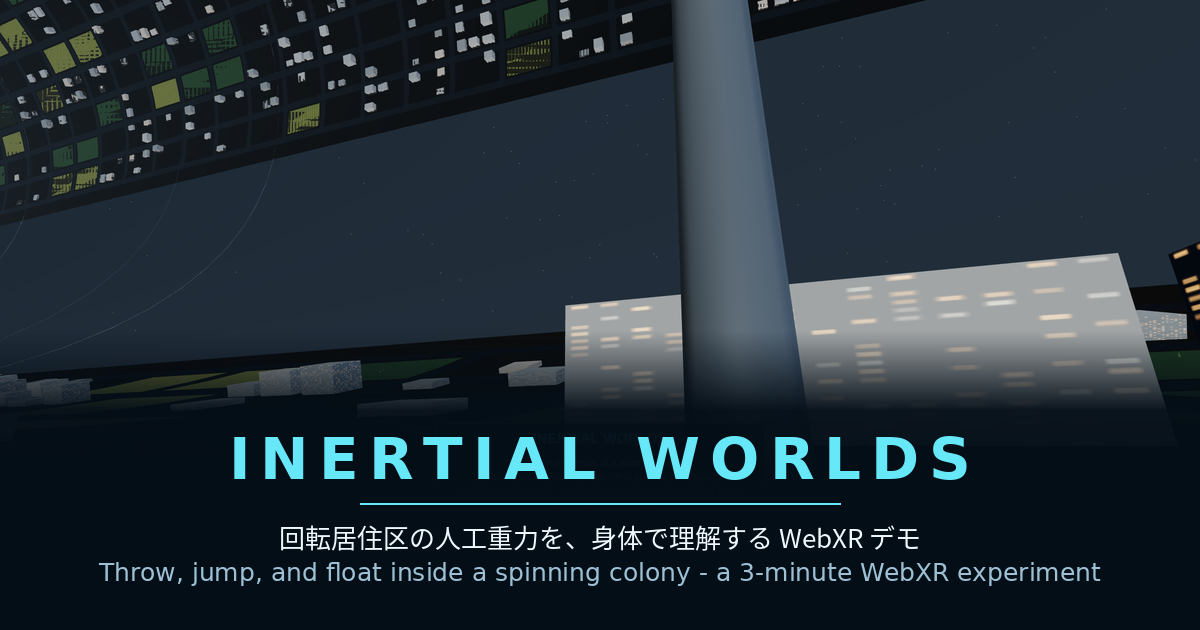
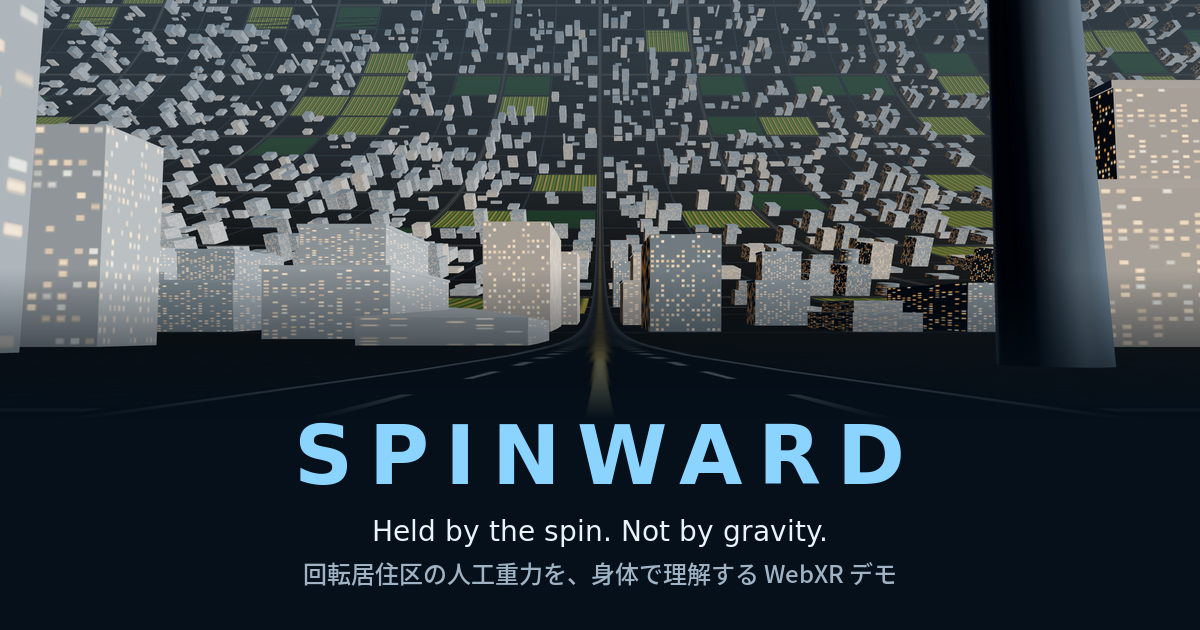
feat: 新OGカード（Spinward）とデプロイ手順を整備
- public/og.png を実ゲームのヒーローフレーム（Cooper の頭上へ巻き上がる街）から
  再生成。旧コードネーム "INERTIAL WORLDS" のソーシャルカードを Spinward 表記
  （"Held by the spin. Not by gravity."）へ刷新（1200×630）
- package.json に deploy script を追加（= bun run build && wrangler versions upload）
- README のデプロイ節を実態へ修正（CI は test+build のみ／本番反映は手動 wrangler）
- デバッグ用グローバル __xr1 を __spinward に改名（旧コードネームの残り）

Claude-Session: https://claude.ai/code/session_01EVqqoXRWgZz7pnFuMs2FSG

diff --git a/src/app/main.ts b/src/app/main.ts
@@ -1510,7 +1510,7 @@ export const bootstrapApp = async () => {
 
     // Lightweight state probe for headless debugging.
     inertialPositionToRotating(playerTraversal.inertialPosition, frameAngle, rotatingCameraPosition)
-    ;(window as unknown as { __xr1?: unknown }).__xr1 = {
+    ;(window as unknown as { __spinward?: unknown }).__spinward = {
       mode: playerTraversal.mode,
       radial: Math.hypot(rotatingCameraPosition.x, rotatingCameraPosition.z),
       radius: habitatConfig.radius,

diff --git a/README.md b/README.md
@@ -54,16 +54,17 @@ bun run build
 bun run preview -- --host 0.0.0.0
 ```
 
-## Cloudflare Pages
+## デプロイ(Cloudflare)
 
-GitHub Actions は `main` への push で `bun test` と `bun run build` を実行し、成功した場合だけ Cloudflare Pages へ `dist/` を direct upload します。
+本番は static-assets-only Worker(`wrangler.jsonc`、Worker スクリプトなし)で、Vite が `dist/` にビルドした成果物を Cloudflare がそのまま配信します。本番 URL は `https://spinward.toming.app/` です。
 
-GitHub repository secrets に以下を設定してください。
+GitHub Actions(`.github/workflows/ci.yml`)は `main` への push と PR で `bun test` と `bun run build` を実行する**だけ**で、デプロイはしません。本番反映は手元から手動で行います。
 
-- `CLOUDFLARE_ACCOUNT_ID`
-- `CLOUDFLARE_API_TOKEN`
+```bash
+bun run deploy   # = bun run build && wrangler versions upload
+```
 
-Cloudflare API token には Cloudflare Pages の edit 権限が必要です。Pages project name は `spinward` です。
+初回は `wrangler login`(または `CLOUDFLARE_API_TOKEN` / `CLOUDFLARE_ACCOUNT_ID` を環境変数に設定)で認証してください。Worker name は `wrangler.jsonc` の `spinward` です。
 
 OGP は `index.html` のメタタグ(og:/twitter:、canonical は `https://spinward.toming.app/`)と `public/og.png`(1200×630 のソーシャルカード)・`public/favicon.png` で構成しています。カード画像は実ゲームのヒーローショットにワードマークを合成したものです。
 
